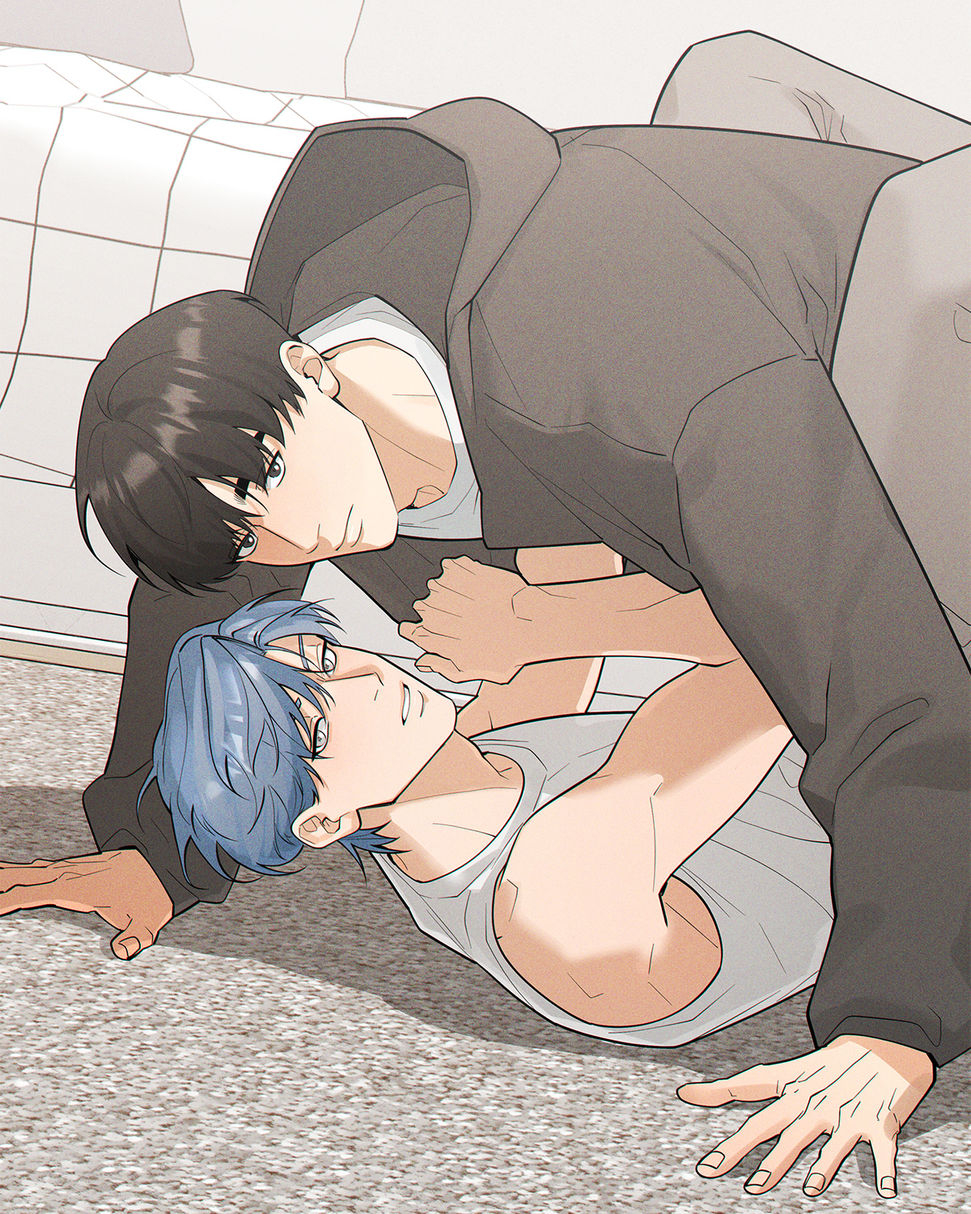
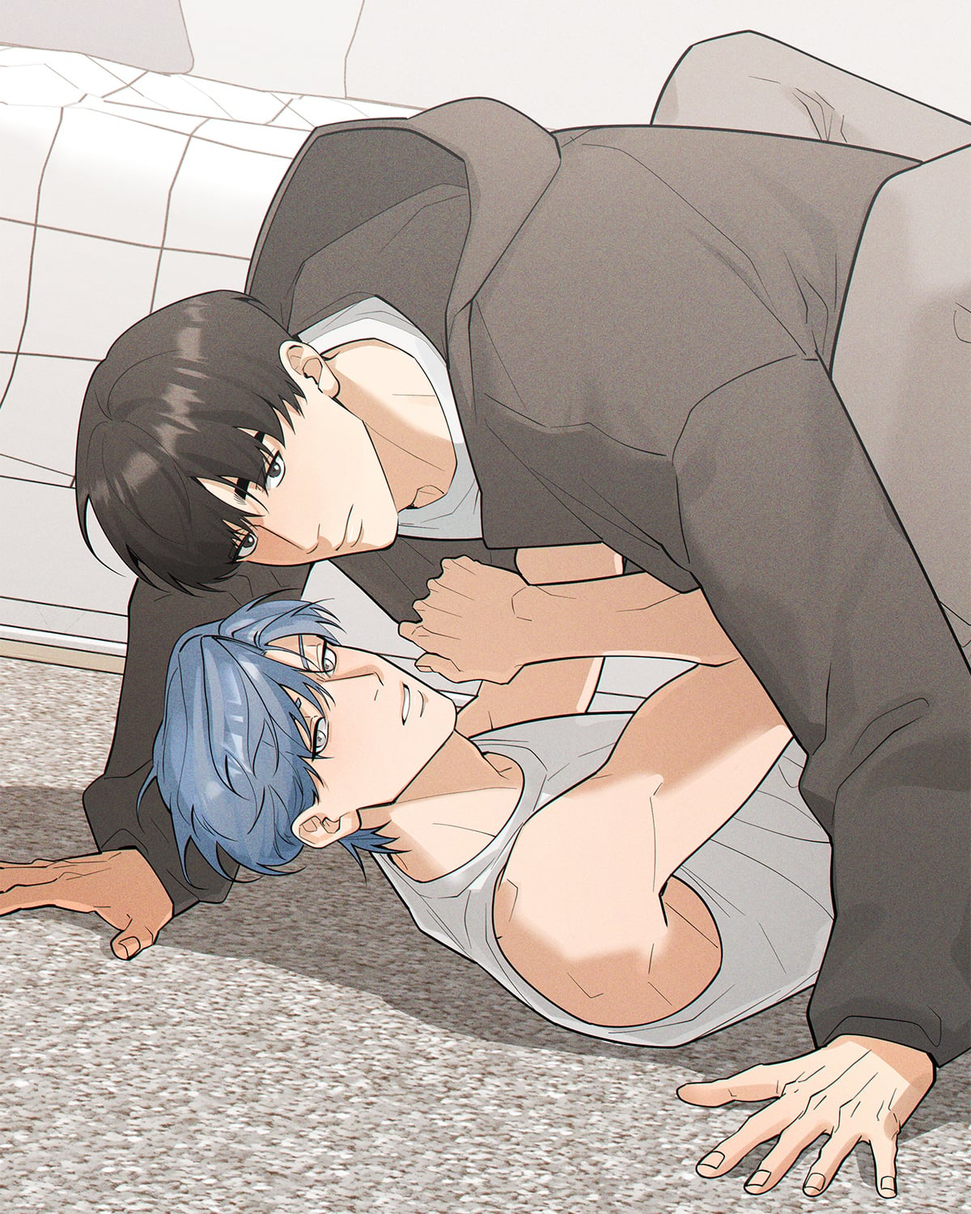
放入作品/製作/合作圖檔並壓縮優化,大幅降低載入量
- 新增 13 個圖檔:合作頭像、角川立體書、作品視覺×5、製作過程×5、條漫長圖
- 為網頁交付壓縮:整頁圖片量 ~22MB → ~5MB
  - process_5_final 4.3MB→116KB、其餘過程圖轉 JPG/縮至 1000w
  - kadokawa_book 1.24MB→208KB、webtoon_strip 2.39MB→323KB
  - 順手優化既有作品封面:cover_roommate 4.2MB(PNG)→299KB(JPG)、
    cover_delivery/pry/kill 縮至 1200w(各 ~200–370KB)
- 過程 3/4/5 與 roommate 改 .jpg,HTML 引用同步更新
- 線稿(草稿/線稿)維持 PNG 避免 JPG 邊緣雜訊;立體書維持 PNG 保留透明
- 全圖經 DOM 驗證載入正常(尺寸正確)

diff --git a/index.html b/index.html
@@ -2766,7 +2766,7 @@ html[lang="zh-TW"] .scroll-top-label {
        rel="noopener noreferrer"
        aria-label="My Handsome Senior Roommate on LINE WEBTOON">
       <div class="work-image">
-        <img src="assets/cover_roommate.png" alt="我的室友帥哥學長">
+        <img src="assets/cover_roommate.jpg" alt="我的室友帥哥學長">
       </div>
       <div class="work-overlay">
         <div class="work-meta-title">
@@ -3097,9 +3097,9 @@ html[lang="zh-TW"] .scroll-top-label {
           </div>
           <img class="process-stage" data-stage="1" src="assets/process_1_sketch.png" alt="草稿" onerror="this.classList.add('broken')">
           <img class="process-stage" data-stage="2" src="assets/process_2_line.png" alt="線稿" onerror="this.classList.add('broken')">
-          <img class="process-stage" data-stage="3" src="assets/process_3_flat.png" alt="平塗" onerror="this.classList.add('broken')">
-          <img class="process-stage" data-stage="4" src="assets/process_4_color.png" alt="上色" onerror="this.classList.add('broken')">
-          <img class="process-stage" data-stage="5" src="assets/process_5_final.png" alt="完成" onerror="this.classList.add('broken')">
+          <img class="process-stage" data-stage="3" src="assets/process_3_flat.jpg" alt="平塗" onerror="this.classList.add('broken')">
+          <img class="process-stage" data-stage="4" src="assets/process_4_color.jpg" alt="上色" onerror="this.classList.add('broken')">
+          <img class="process-stage" data-stage="5" src="assets/process_5_final.jpg" alt="完成" onerror="this.classList.add('broken')">
         </div>
       </div>
       <div class="process-progress"><span class="process-progress-fill"></span></div>
